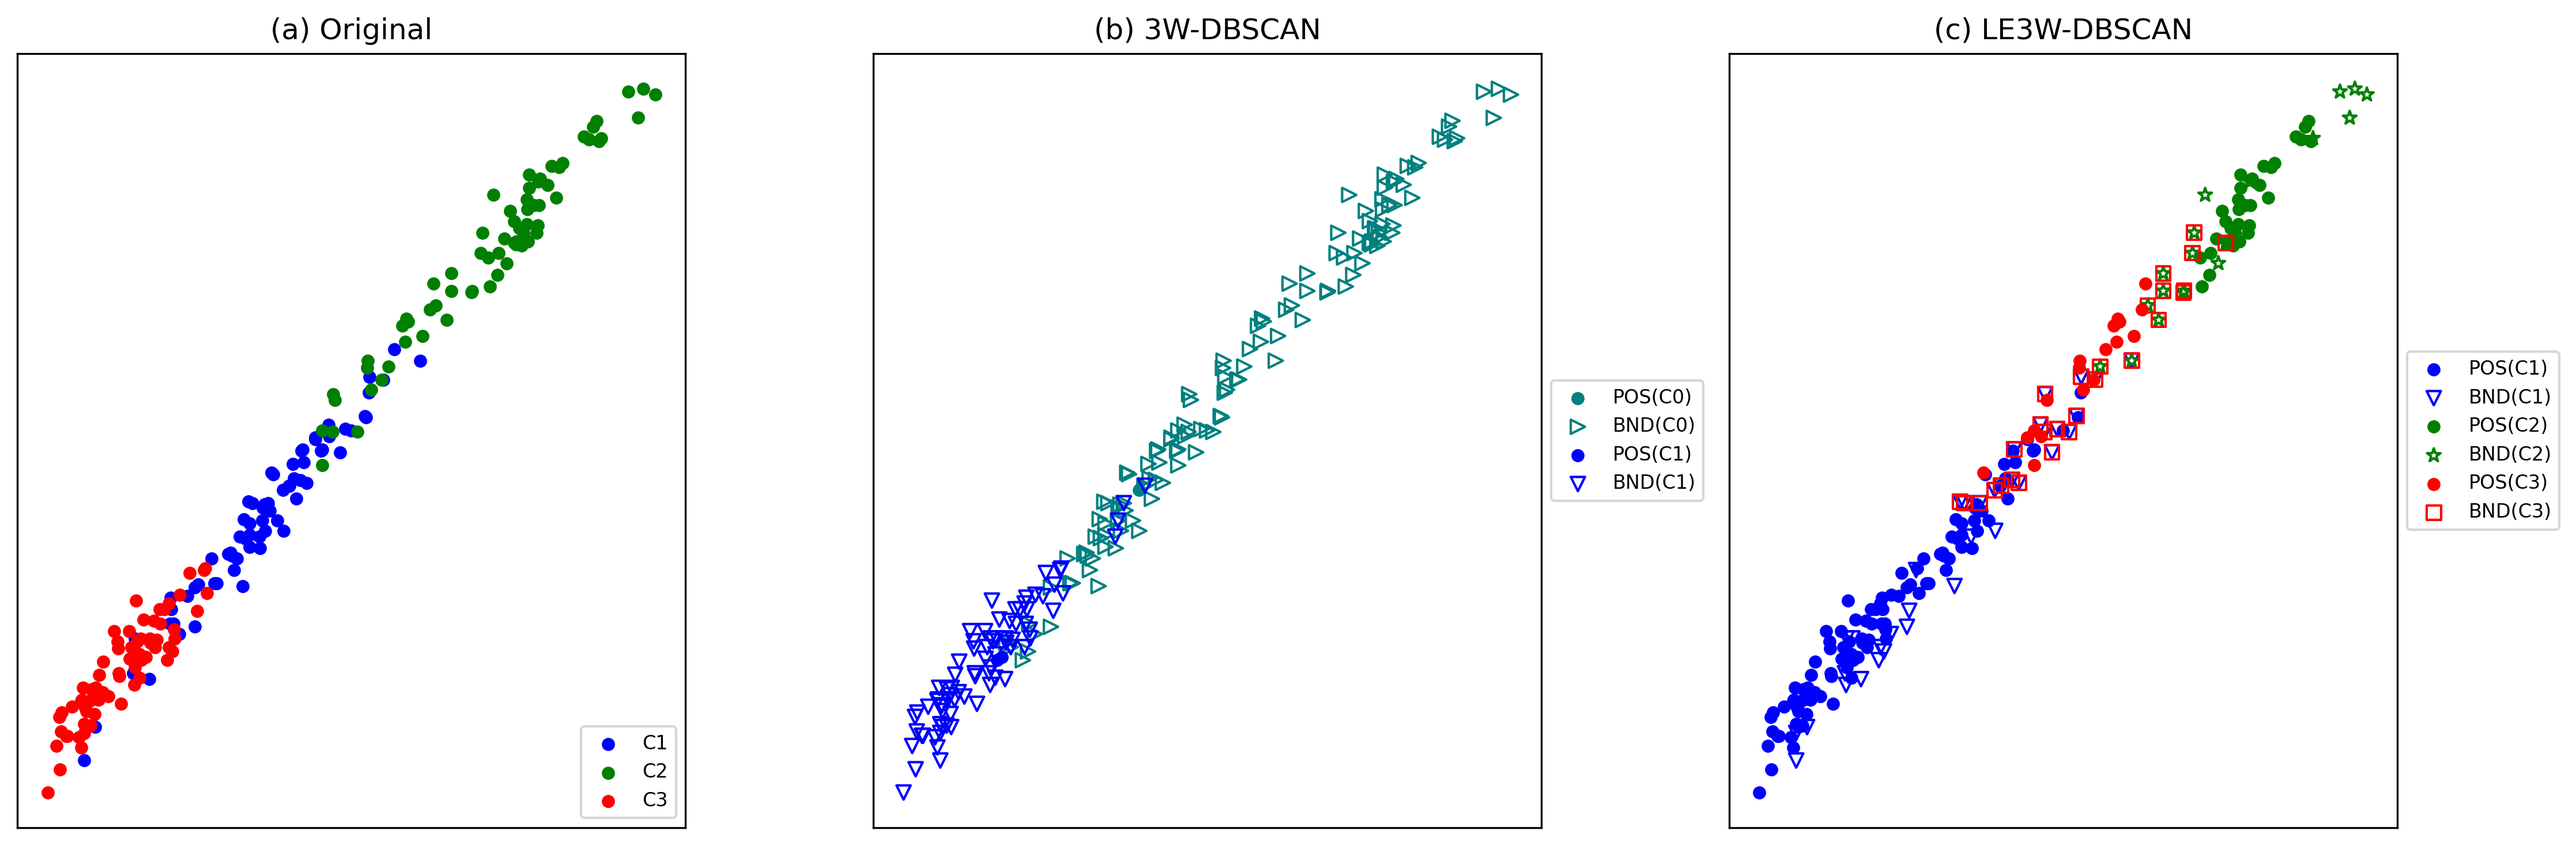
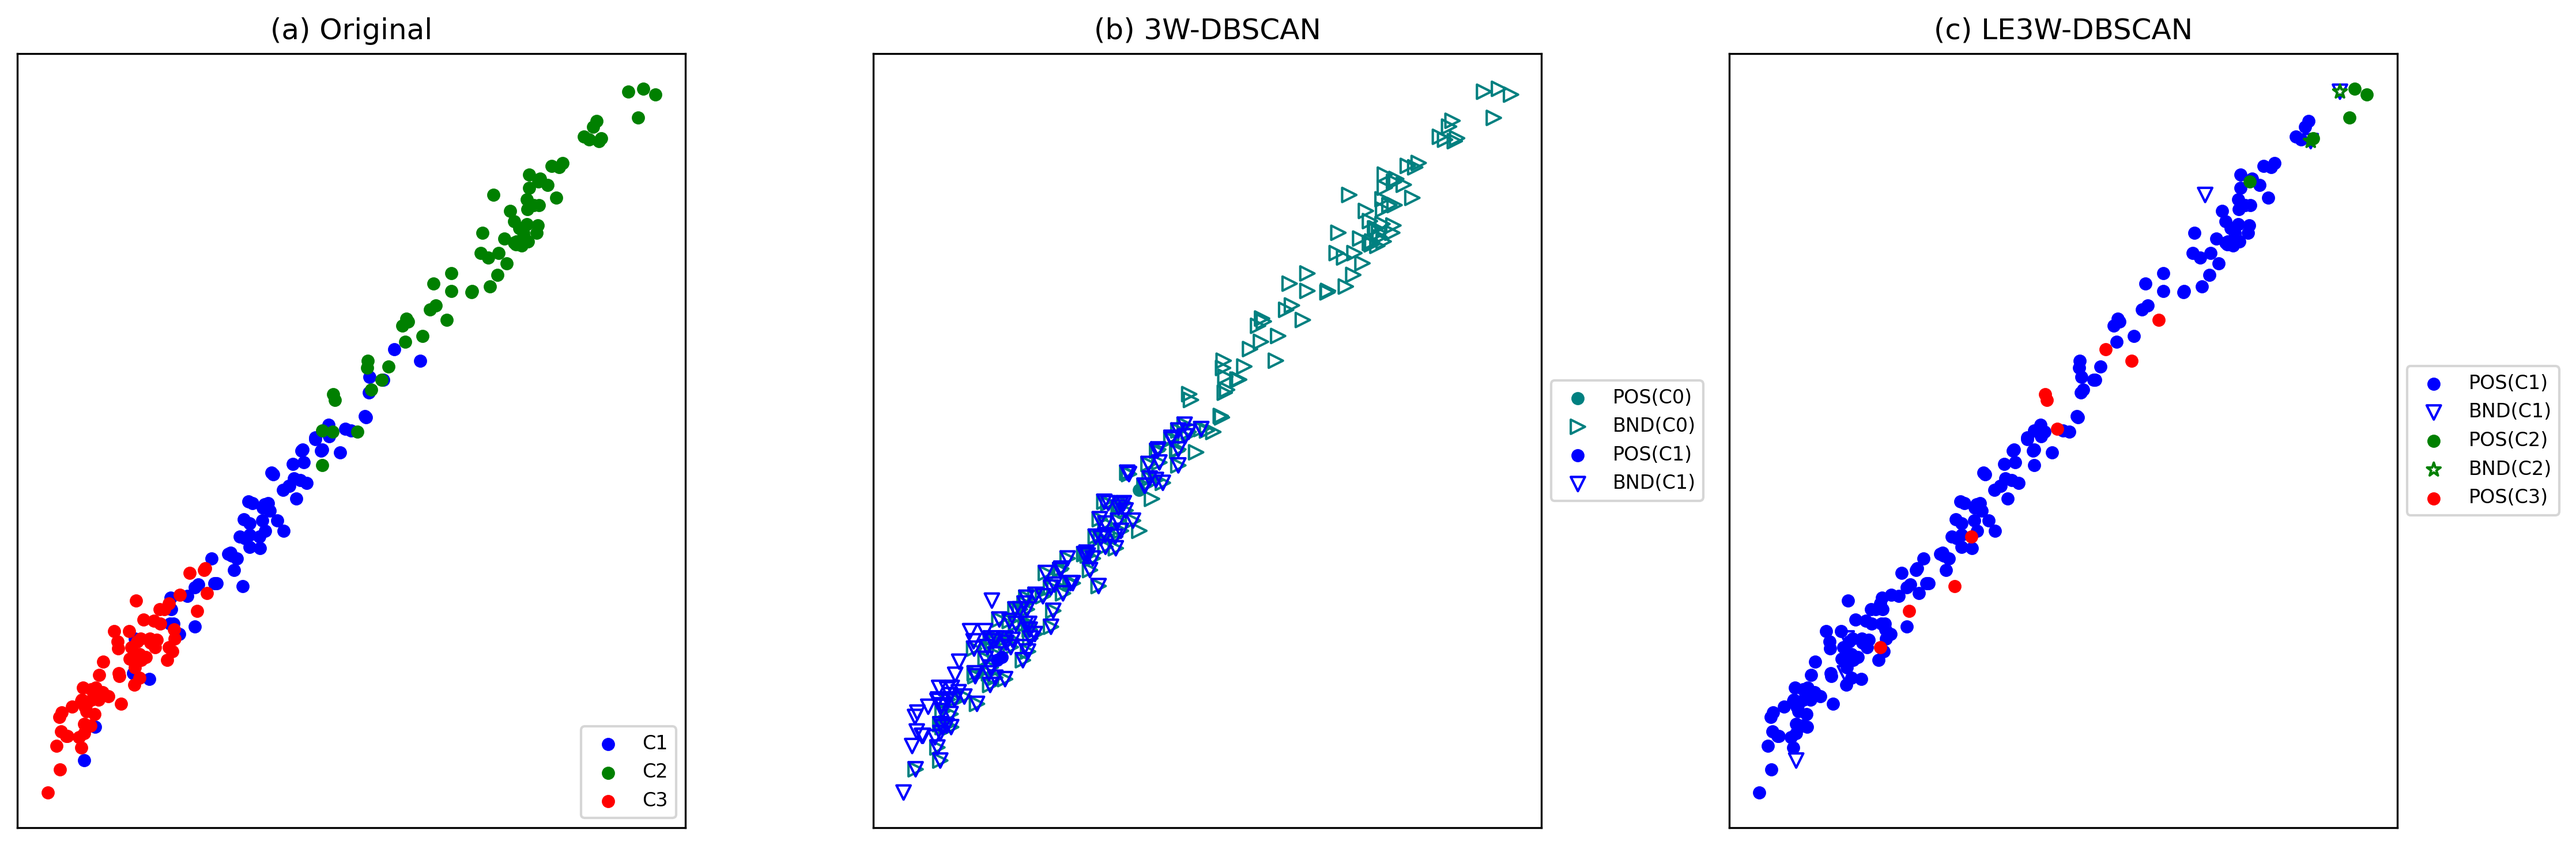
ok

diff --git a/tune_params.py b/tune_params.py
@@ -1,0 +1,160 @@
+"""
+Script tìm tham số (MinPts, k) cho LE3W-DBSCAN bằng cách so sánh
+local eps thu được với Table 2 của bài báo Shen (2023).
+
+Cách dùng:
+  python tune_params.py
+
+Thay đổi SEARCH_GRID và PAPER_TABLE2 bên dưới để điều chỉnh.
+"""
+
+import numpy as np
+import pandas as pd
+from sklearn.preprocessing import MinMaxScaler
+from models.le3w_dbscan import LE3W_DBSCAN
+from utils.dataloader import load_dataset
+import os
+
+# ─── Giá trị local eps trong Table 2 của bài báo Shen (2023) ───────────────
+PAPER_TABLE2 = {
+    # Aggregation và Pathbased đã tìm được tham số tốt → bỏ khỏi search
+    # 'Aggregation': [0.0513, 0.0573, 0.0633, 0.0690, 0.0735, 0.0735, 0.0635],
+    # 'Compound':    [0.0495, 0.0556, 0.0391, 0.0363, 0.0401, 0.1588],
+    # 'Pathbased':   [0.0561, 0.0733, 0.1998],
+    'Flame':       [0.0628, 0.0680],
+    'Iris':        [0.3498, 0.2927, 0.6089],
+    'Seeds':       [0.3092, 0.3993, 0.5265],
+}
+
+# ─── Không gian tìm kiếm tham số ────────────────────────────────────────────
+SEARCH_GRID = {
+    'Aggregation': {'minPts_range': range(5, 20),  'k_range': range(10, 40)},
+    'Compound':    {'minPts_range': range(3, 15),  'k_range': range(5,  30)},
+    'Pathbased':   {'minPts_range': range(3, 15),  'k_range': range(5,  25)},
+    # Flame: paper eps=[0.0628,0.0680] nhỏ hơn kết quả cũ → thử k nhỏ hơn (3..15)
+    'Flame':       {'minPts_range': range(3, 20),  'k_range': range(3,  20)},
+    # Iris: paper eps=[0.35,0.29,0.61] lớn hơn rất nhiều → thử k lớn hơn (lên 80)
+    'Iris':        {'minPts_range': range(3, 20),  'k_range': range(5,  80)},
+    # Seeds: paper dùng 197 mẫu, ta có 210 → thử dải rộng hơn
+    'Seeds':       {'minPts_range': range(3, 30),  'k_range': range(5,  60)},
+}
+
+DATA_DIR = "data"
+
+
+def eps_error(found: list, target: list) -> float:
+    """
+    Tính sai số giữa local eps tìm được và Table 2.
+    Chỉ so sánh nếu số cụm khớp nhau.
+    """
+    if len(found) != len(target):
+        return float('inf')
+    # Sắp xếp cả hai để so sánh độc lập với thứ tự phát hiện
+    found_s  = sorted(found)
+    target_s = sorted(target)
+    return np.mean([abs(f - t) for f, t in zip(found_s, target_s)])
+
+
+def tune_dataset(ds_name: str, file_path: str, paper_eps: list,
+                 minPts_range, k_range) -> pd.DataFrame:
+    X, _ = load_dataset(file_path)
+    X = MinMaxScaler().fit_transform(X)
+    n_clusters_target = len(paper_eps)
+
+    results = []
+    for minPts in minPts_range:
+        for k in k_range:
+            if k <= minPts:          # k phải > minPts theo thiết kế thuật toán
+                continue
+            if k >= X.shape[0]:
+                continue
+            try:
+                model = LE3W_DBSCAN(min_samples=minPts, k_neighbors=k).fit(X)
+                found_eps = sorted(model.local_eps_dict.values())
+                n_found   = len(found_eps)
+                error     = eps_error(found_eps, paper_eps)
+                results.append({
+                    'minPts': minPts,
+                    'k':      k,
+                    'n_clusters_found': n_found,
+                    'n_clusters_target': n_clusters_target,
+                    'mean_eps_error': round(error, 6),
+                    'found_eps': [round(e, 4) for e in found_eps],
+                })
+            except Exception:
+                pass
+
+    df = pd.DataFrame(results)
+    if df.empty:
+        return df
+
+    # Ưu tiên: đúng số cluster trước, rồi sai số eps nhỏ nhất
+    df_correct = df[df['n_clusters_found'] == n_clusters_target]
+    if not df_correct.empty:
+        df_correct = df_correct.sort_values('mean_eps_error')
+        return df_correct
+    else:
+        # Nếu không tìm được đúng số cluster, hiển thị các kết quả gần nhất
+        df = df.sort_values(['mean_eps_error'])
+        return df.head(10)
+
+
+def main():
+    print("=" * 90)
+    print(f"{'TÌM THAM SỐ CHO LE3W-DBSCAN — SO SÁNH VỚI TABLE 2 BÀI BÁO':^90}")
+    print("=" * 90)
+
+    for ds_name, paper_eps in PAPER_TABLE2.items():
+        # Thử cả .csv và .txt
+        path = None
+        for ext in ('.csv', '.txt'):
+            candidate = os.path.join(DATA_DIR, ds_name + ext)
+            if os.path.exists(candidate):
+                path = candidate
+                break
+        # Một số dataset tên file viết hoa/thường khác nhau
+        if path is None:
+            for ext in ('.csv', '.txt'):
+                candidate = os.path.join(DATA_DIR, ds_name.lower() + ext)
+                if os.path.exists(candidate):
+                    path = candidate
+                    break
+
+        if path is None:
+            print(f"\n[SKIP] {ds_name}: không tìm thấy file dữ liệu")
+            continue
+
+        grid = SEARCH_GRID.get(ds_name, {
+            'minPts_range': range(3, 25),
+            'k_range': range(5, 40),
+        })
+
+        print(f"\n{'─'*90}")
+        print(f"Dataset: {ds_name}  |  Mục tiêu: {len(paper_eps)} cụm  |  "
+              f"Paper eps: {paper_eps}")
+        print(f"{'─'*90}")
+
+        df = tune_dataset(
+            ds_name, path, paper_eps,
+            grid['minPts_range'], grid['k_range']
+        )
+
+        if df.empty:
+            print("  Không có kết quả nào.")
+            continue
+
+        top5 = df.head(5)
+        for _, row in top5.iterrows():
+            marker = "✓" if row['n_clusters_found'] == row['n_clusters_target'] else "✗"
+            print(f"  {marker} minPts={int(row['minPts']):3d}  k={int(row['k']):3d}  "
+                  f"clusters={int(row['n_clusters_found'])}/{int(row['n_clusters_target'])}  "
+                  f"eps_error={row['mean_eps_error']:.5f}  "
+                  f"eps={row['found_eps']}")
+
+    print(f"\n{'='*90}")
+    print("Gợi ý: Cập nhật tham số tốt nhất vào main_up.py (cột minPts_le và k_le).")
+    print("='*90")
+
+
+if __name__ == "__main__":
+    main()

diff --git a/models/le3w_dbscan.py b/models/le3w_dbscan.py
@@ -27,22 +27,28 @@ class LE3W_DBSCAN:
         
         # --- Giai đoạn 1: LE-DBSCAN (Hai chiều) ---
         while unclassified:
-            # Chọn điểm có mật độ cao nhất (khoảng cách trung bình nhỏ nhất)
-            p = min(unclassified, key=lambda idx: density[idx])
+            # Chọn điểm có mật độ cao nhất (khoảng cách trung bình nhỏ nhất), tie-break bằng index
+            p = min(unclassified, key=lambda idx: (density[idx], idx))
             
             # Tính Bán kính cục bộ (Local Eps) dựa trên k-láng giềng
             eps_j = np.sort(D[p])[self.k_neighbors]
             
             # Tìm láng giềng của p
             neighbors_p = np.where(D[p] <= eps_j)[0]
-            
-            if len(neighbors_p) >= self.min_samples:
+
+            # Chỉ đếm láng giềng THỰC SỰ chưa phân loại (hoặc còn là nhiễu tạm).
+            # Không tính điểm đã vào cluster khác — vì p cần đủ "thành viên mới"
+            # để tạo thành cluster hợp lệ. Nếu đếm tất cả (kể cả đã classified) thì
+            # với k >= minPts điều kiện luôn True → mọi điểm rải rác đều tạo cluster thừa.
+            new_count = sum(1 for q in neighbors_p if q in unclassified or labels[q] == -1)
+
+            if new_count >= self.min_samples:
                 cluster_id += 1
                 self.local_eps_dict[cluster_id] = eps_j
                 labels[p] = cluster_id
                 core_flags[p] = True
                 unclassified.remove(p)
-                
+
                 # Bắt đầu loang cụm
                 queue = list(neighbors_p)
                 while queue:
@@ -52,7 +58,7 @@ class LE3W_DBSCAN:
                         labels[q] = cluster_id
                     elif labels[q] == -1:
                         labels[q] = cluster_id
-                        
+
                     # Chỉ mở rộng từ điểm thuộc cụm hiện tại, tránh set core_flags sai cho điểm cụm khác
                     if labels[q] == cluster_id:
                         neighbors_q = np.where(D[q] <= eps_j)[0]
@@ -63,20 +69,10 @@ class LE3W_DBSCAN:
                                     if n_q not in queue:
                                         queue.append(n_q)
             else:
+                # Không đủ láng giềng mới → điểm này là nhiễu, không tạo cluster
                 unclassified.remove(p)
                 labels[p] = -1
                 
-        # Gộp cụm quá nhỏ vào noise — ngưỡng tối thiểu là max(min_samples, 5)
-        # để tránh cụm chỉ 2-3 điểm khi min_samples nhỏ
-        min_cluster_size = max(self.min_samples, 5)
-        for cid in set(labels) - {-1}:
-            members = np.where(labels == cid)[0]
-            if len(members) < min_cluster_size:
-                labels[members] = -1
-                core_flags[members] = False
-                if cid in self.local_eps_dict:
-                    del self.local_eps_dict[cid]
-
         # --- Giai đoạn 2: LE3W-DBSCAN (Ba chiều) ---
         unique_clusters = set(labels) - {-1}
         for c in unique_clusters:

diff --git a/models/threeway_dbscan.py b/models/threeway_dbscan.py
@@ -72,7 +72,9 @@ class ThreeWayDBSCAN:
             else:
                 noises.append(i)  # Noise -> Xử lý sau
                 
-        # Line 5: Strategy 2 - Mở rộng BND cho điểm biên chồng lấp (Eq. 8)
+        # Line 5: Strategy 2 - Mở rộng BND cho điểm biên VÀ điểm nhiễu chồng lấp (Eq. 8)
+        # Paper: "FOR mỗi điểm x có S(x)=0 HOẶC S(x)=-1" — cả border lẫn noise
+        assigned_noises = set()
         for k in unique_clusters:
             bnd_items = list(self.BND[k])
             for idx in bnd_items:
@@ -82,22 +84,32 @@ class ThreeWayDBSCAN:
                     n_cluster = self.labels_[n_idx]
                     if n_cluster != -1 and n_cluster != k:
                         self.BND[n_cluster].add(idx)
-                        
-        # Line 6: Strategy 3 - Gán điểm nhiễu vào vùng BND (Eq. 9, 10)
+
+        # Xử lý noise points trong Strategy 2: nếu có eps-neighbor thuộc cụm nào thì add vào BND đó
+        for noise_idx in noises:
+            neighbors = np.where(D[noise_idx] <= self.eps)[0]
+            for n_idx in neighbors:
+                n_cluster = self.labels_[n_idx]
+                if n_cluster != -1:
+                    self.BND[n_cluster].add(noise_idx)
+                    assigned_noises.add(noise_idx)
+
+        # Line 6: Strategy 3 - Gán điểm nhiễu CÒN LẠI (chưa được gán ở Strategy 2) vào BND (Eq. 9, 10)
+        remaining_noises = [n for n in noises if n not in assigned_noises]
         all_pos_indices = []
         pos_cluster_map = {}
         for k in unique_clusters:
             for idx in self.POS[k]:
                 all_pos_indices.append(idx)
-                pos_cluster_map[idx] = k 
-                
+                pos_cluster_map[idx] = k
+
         if len(all_pos_indices) > 0:
-            for noise_idx in noises:
+            for noise_idx in remaining_noises:
                 # Eq. 9: Tìm điểm lõi gần nhất (NCN)
                 distances_to_cores = D[noise_idx, all_pos_indices]
                 nearest_core_relative_idx = np.argmin(distances_to_cores)
                 nearest_core_real_idx = all_pos_indices[nearest_core_relative_idx]
-                
+
                 # Eq. 10: Gán noise vào BND của cụm tương ứng
                 target_cluster = pos_cluster_map[nearest_core_real_idx]
                 self.BND[target_cluster].add(noise_idx)

diff --git a/main_up.py b/main_up.py
@@ -19,12 +19,12 @@ def main():
     
     target_datasets = {
         # --- Dataset bài báo LE3W-DBSCAN (Shen 2023) ---
-        'Aggregation': {'eps_3w': 0.09, 'minPts_3w': 5,  'eta': 0.20, 'minPts_le': 10, 'k_le': 20},
-        'Compound':    {'eps_3w': 0.13, 'minPts_3w': 5,  'eta': 0.20, 'minPts_le': 5,  'k_le': 15},
-        'Pathbased':   {'eps_3w': 0.13, 'minPts_3w': 5,  'eta': 0.20, 'minPts_le': 5,  'k_le': 12},
-        'Flame':       {'eps_3w': 0.15, 'minPts_3w': 4,  'eta': 0.20, 'minPts_le': 18, 'k_le': 24},
-        'IRIS':        {'eps_3w': 0.70, 'minPts_3w': 4,  'eta': 0.30, 'minPts_le': 8,  'k_le': 14},
-        'Seeds':       {'eps_3w': 0.70, 'minPts_3w': 4,  'eta': 0.20, 'minPts_le': 20, 'k_le': 25},
+        'Aggregation': {'eps_3w': 0.09, 'minPts_3w': 5,  'eta': 0.20, 'minPts_le': 13, 'k_le': 22},  # eps_error=0.00009
+        'Compound':    {'eps_3w': 0.13, 'minPts_3w': 5,  'eta': 0.20, 'minPts_le': 7,  'k_le': 14},  # eps_error=0.01263
+        'Pathbased':   {'eps_3w': 0.13, 'minPts_3w': 5,  'eta': 0.20, 'minPts_le': 5,  'k_le': 14},  # eps_error=0.00002
+        'Flame':       {'eps_3w': 0.15, 'minPts_3w': 4,  'eta': 0.20, 'minPts_le': 6,  'k_le': 7},   # eps_error=0.00818 (best available)
+        'IRIS':        {'eps_3w': 0.70, 'minPts_3w': 4,  'eta': 0.30, 'minPts_le': 4,  'k_le': 12},  # eps_error=0.15327 (cần tune thêm)
+        'Seeds':       {'eps_3w': 0.70, 'minPts_3w': 4,  'eta': 0.20, 'minPts_le': 5,  'k_le': 19},  # eps_error=0.05006 (nghi dataset khác)
         # --- Dataset bài báo 3W-DBSCAN (Yu 2019) ---
         '4C':          {'eps_3w': 0.07, 'minPts_3w': 5,  'eta': 0.20, 'minPts_le': 20, 'k_le': 43},
         # '3L': LE3W khong hieu qua (cum elongated), NMI chi dat 0.545
